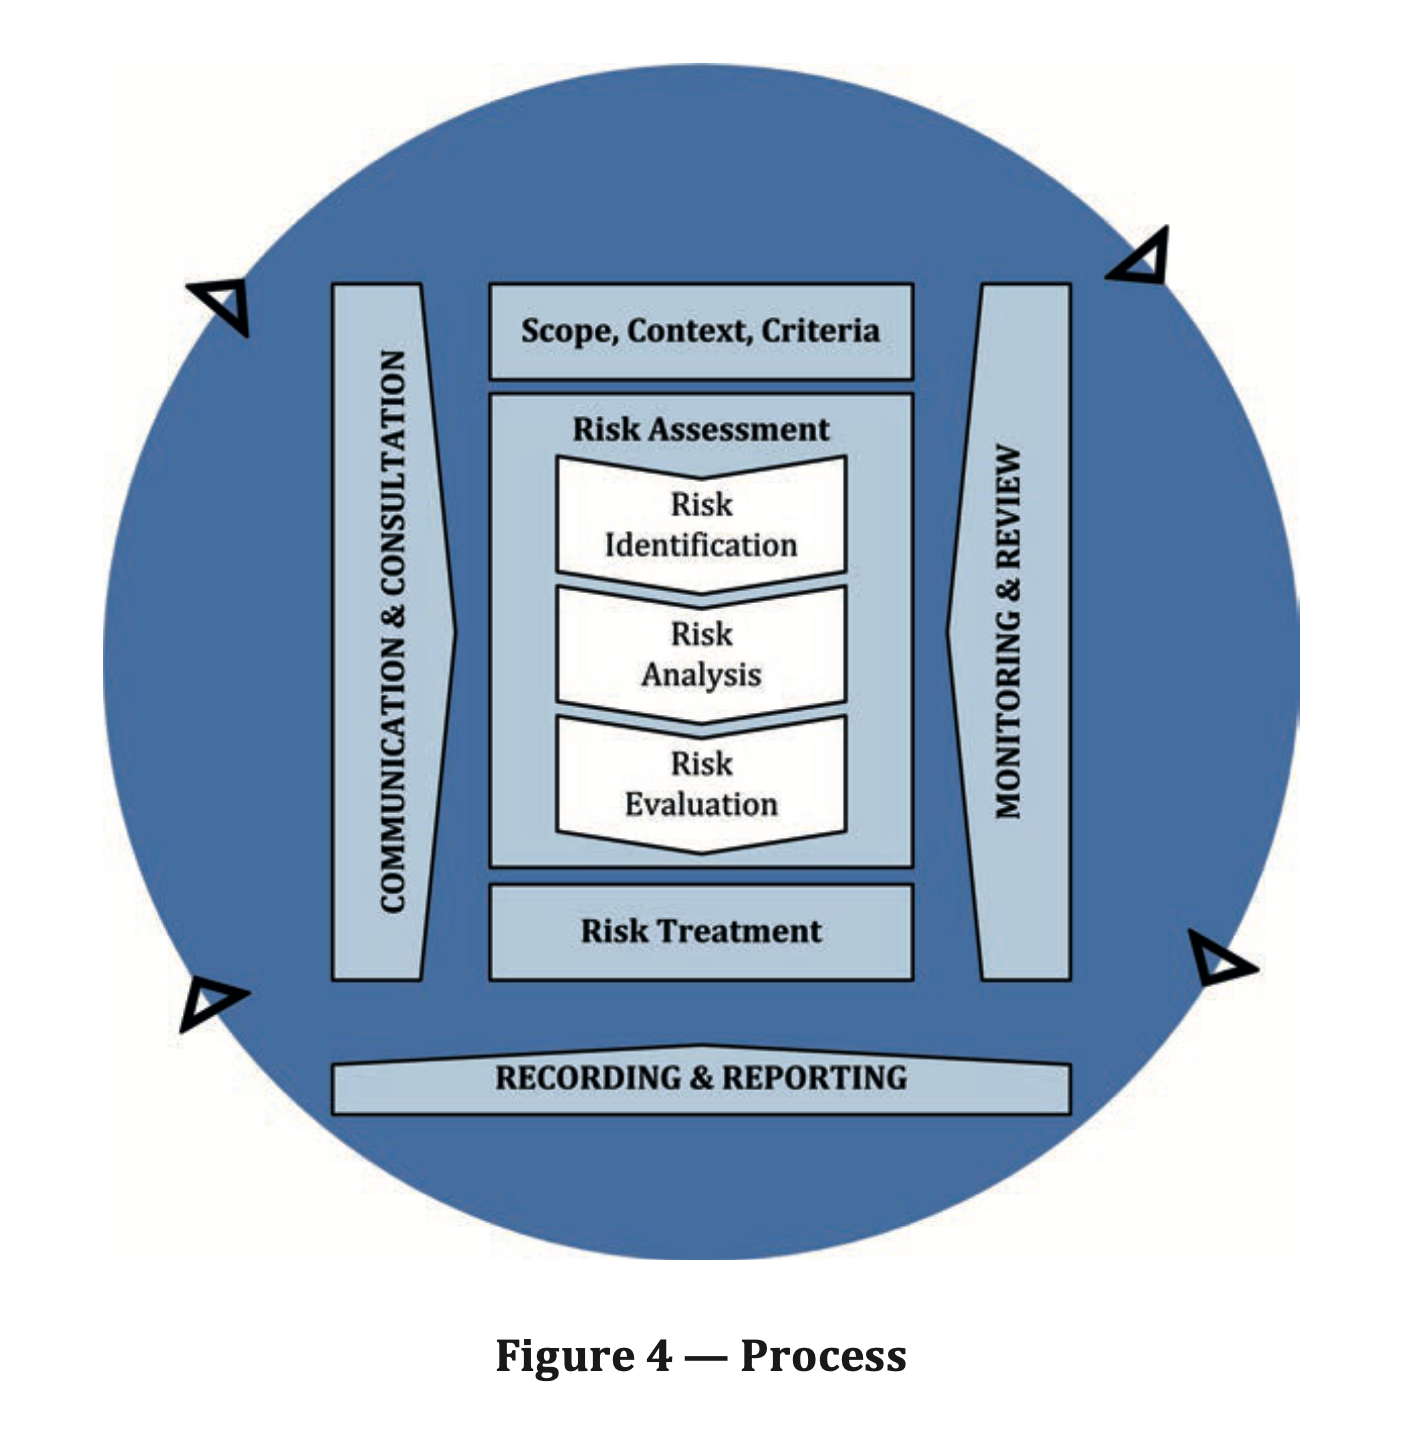
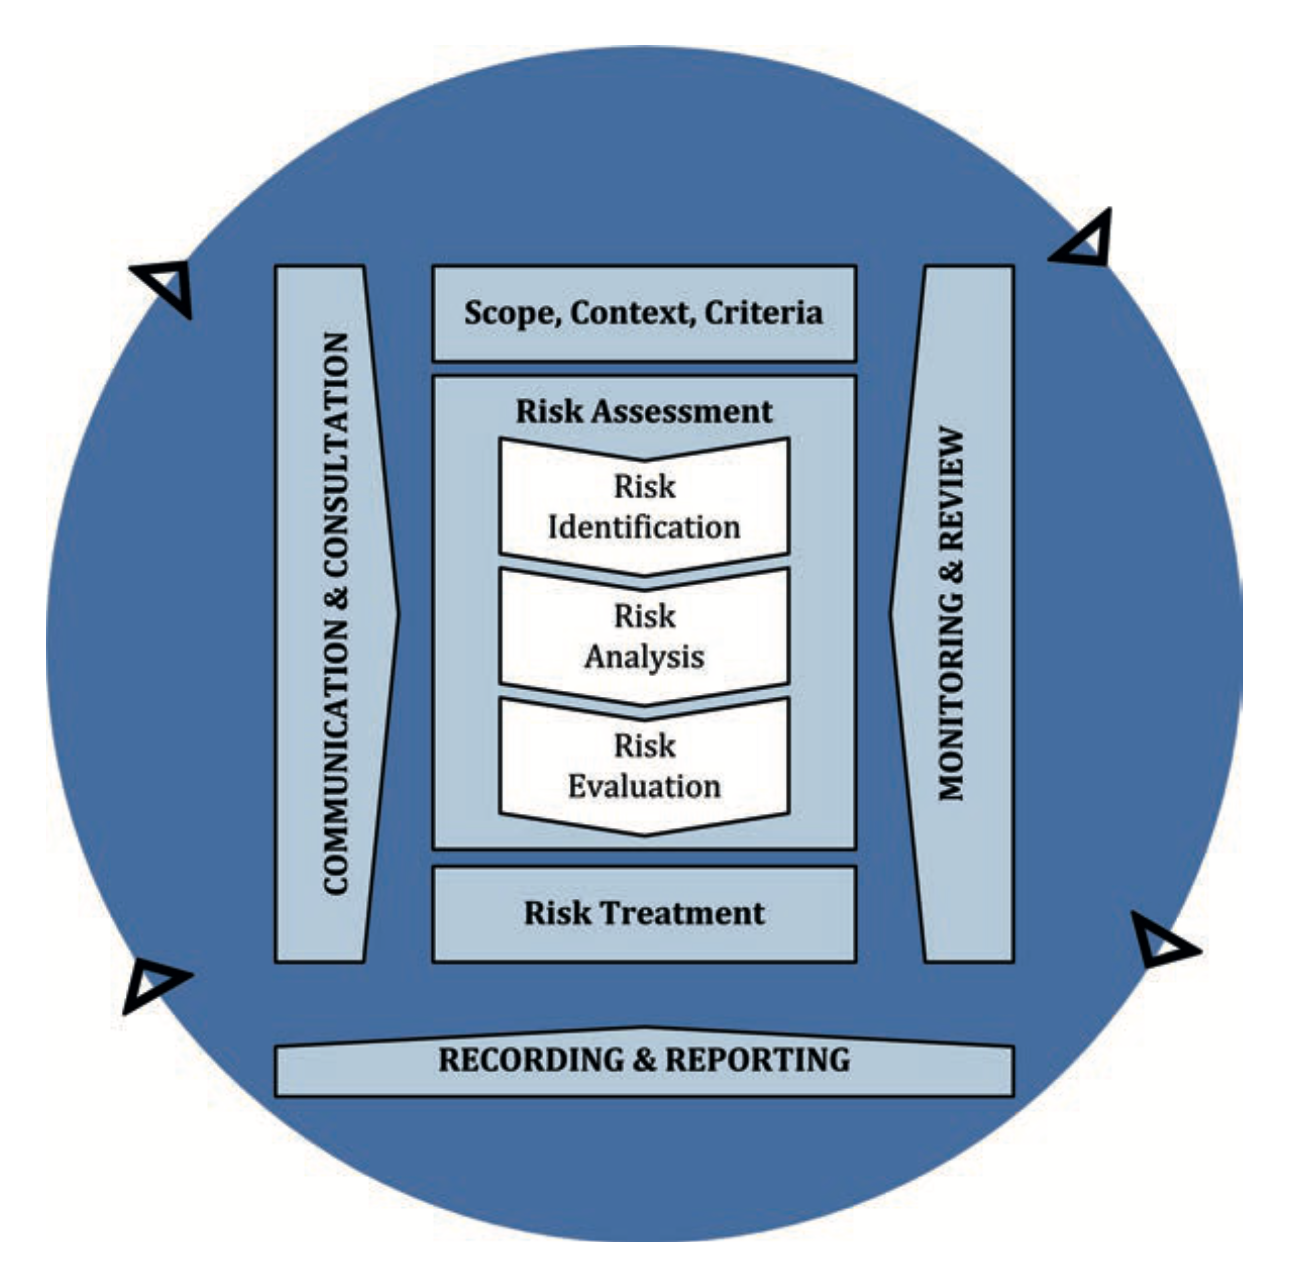
Added changes after review
Removed process text in RA image
e.g., moved on top of the help
changed the wording about usage of AI
Risk Analysis (a) and (b) changed in to Phase 1, 2
In the risk catalog of Risk Analysis Phase 2 now Process unknown and Process not adopted are two separated elements.

diff --git a/wizard.html b/wizard.html
@@ -16,8 +16,8 @@
         <aside class="sidebar">
             <ul class="steps-list">
                 <li class="step-item active" data-step="0">Step 1: Risk Identification</li>
-                <li class="step-item" data-step="1">Step 2: Risk Analysis (a)</li>
-                <li class="step-item" data-step="2">Step 3: Risk Analysis (b)</li>
+                <li class="step-item" data-step="1">Step 2: Risk Analysis Phase 1</li>
+                <li class="step-item" data-step="2">Step 3: Risk Analysis Phase 2</li>
                 <li class="step-item" data-step="3">Step 4: Risk Evaluation</li>
             </ul>
         </aside>
@@ -37,7 +37,8 @@
                         <span class="help-icon" id="help-risk-name">❓</span>
                     </label>
                     <div id="help-text-risk-name" class="help-text">
-                        <p>Use a short, descriptive phrase that captures the essence of the risk. Concise and Clear: e.g., “Unknown cyber risk security risk exposure”</p>
+                        <p>E.g., Unknown cyber risk security risk exposure </p>
+                        <p>Use a short concise and clear descriptive phrase that captures the essence of the risk.</p>
                     </div>
                     <input type="text" id="riskName" placeholder="Enter risk name" required>
                 </div>
@@ -47,6 +48,12 @@
                         <span class="help-icon" id="help-risk-description">❓</span>
                     </label>
                     <div id="help-text-risk-description" class="help-text">
+
+                        <p>E.g., The team is not following the SDL process and has not prepared a Security Risk Plan that includes an assessment of cybersecurity risks.
+                            Without a proper risk assessment, we cannot fully understand our risk exposure.
+                            This poses a significant problem for our customers who rely on the product, as well as a reputational risk for our company, its brand, and its shareholders.
+                            Furthermore, customer assets could potentially be compromised due to vulnerabilities, exposing the company to legal actions and lawsuits.
+                        </p>
                         <p>When describing a risk, consider the following elements:</p>
                         <ul>
                             <li>Tangible and intangible sources of risk: Identify physical, financial, or reputational factors contributing to the risk.</li>
@@ -60,10 +67,6 @@
                             <li>Limitations of knowledge and reliability of information: Acknowledge gaps in understanding or inaccuracies in available data.</li>
                             <li>Time-related factors: Identify deadlines, delays, or timeframes that influence the risk.</li>
                             <li>Biases, assumptions, and beliefs of those involved: Address subjective influences that could skew the risk assessment.</li>
-                            <li>e.g., "The team is not following the SDL process and has not prepared a Security Risk Plan that includes an assessment of cybersecurity risks.
-                                Without a proper risk assessment, we cannot fully understand our risk exposure.
-                                This poses a significant problem for our customers who rely on the product, as well as a reputational risk for our company, its brand, and its shareholders.
-                                Furthermore, customer assets could potentially be compromised due to vulnerabilities, exposing the company to legal actions and lawsuits."</li>
                         </ul>
                     </div>
                     <textarea id="riskDescription" placeholder="Enter risk description" rows="4"></textarea>
@@ -74,7 +77,7 @@
 
             <div class="step" id="step-2">
                 <h2>
-                    Step 2: Risk Analysis (a)
+                    Step 2: Risk Analysis Phase 1
                     <span class="help-icon" id="help-step2-risk-analysis">❓</span>
                 </h2>
                 <div id="help-text-step2-risk-analysis" class="help-text">
@@ -101,12 +104,13 @@
                         <span class="help-icon" id="help-impact-description">❓</span>
                     </label>
                     <div id="help-text-impact-description" class="help-text">
-                        <p>Use AI to find the potential impact.</p>
-                        <p>e.g.,"Customer Trust Erosion: Clients may lose confidence in the product’s reliability and security, potentially impacting customer retention and acquisition.</p>
+                        <p>I suggest using AI to get suggestions on potential impacts.</p>
+                        <p>E.g., </p>
+                        <p>Customer Trust Erosion: Clients may lose confidence in the product’s reliability and security, potentially impacting customer retention and acquisition.</p>
                         <p>Reputational Damage: The company’s brand could suffer, reducing its market competitiveness and tarnishing shareholder confidence</p>
                         <p>Financial Loss: Exploited vulnerabilities may result in costly incidents, such as data breaches or operational disruptions, leading to fines, legal settlements, or regulatory penalties.</p>
                         <p>Legal Liabilities: Customer assets impacted by unresolved vulnerabilities could trigger lawsuits, further increasing operational and financial strain.</p>
-                        <p>Business Disruption: Addressing unplanned security incidents consumes resources and shifts focus away from strategic goals, delaying product updates or launches."</p>
+                        <p>Business Disruption: Addressing unplanned security incidents consumes resources and shifts focus away from strategic goals, delaying product updates or launches.</p>
                     </div>
                     <textarea id="impactDescription" placeholder="Describe the impact" rows="4"></textarea>
                 </div>
@@ -159,7 +163,7 @@
             </div>
 
             <div class="step" id="step-3">
-                <h2>Step 3: Risk Analysis (b)</h2>
+                <h2>Step 3: Risk Analysis Phase 2</h2>
                 <div class="form-group">
                     <div class="form-group">
                         <label for="strategicRisk">
@@ -234,7 +238,8 @@
                             <li>Inefficient processes: Processes generating waste of resources, time, or money.</li>
                             <li>Ineffective processes: Processes that fail to produce the desired results.</li>
                             <li>KPIs not capturing relevant indicators: Metrics that fail to measure performance effectively, limiting business improvement opportunities.</li>
-                            <li>Process unknown or not adopted: Operational workflows are poorly defined or inconsistently followed.</li>
+                            <li>Process unknown: Operational workflows are unknown.</li>
+                            <li>Process not adopted: Operational workflows known but not adopeted.</li>
                             <li>Other risks affecting the efficiency and effectiveness of operations.</li>
                         </ul>
                         <p><strong>Considerations:</strong></p>
@@ -249,8 +254,9 @@
                         <option value="OR1">Inefficient process (process generates waste of resource/time/money/etc.)</option>
                         <option value="OR2">Ineffective process (process is unable to produce desired results)</option>
                         <option value="OR3">KPIs are not capturing relevant indicators and/or can’t be used for business improvement</option>
-                        <option value="OR4">Process unknown or not adopted</option>
-                        <option value="OR5">Other</option>
+                        <option value="OR4">Process unknown</option>
+                        <option value="OR5">Process not adopted</option>
+                        <option value="OR6">Other</option>
                     </select>
                 </div>
                 <div class="form-group">
@@ -280,7 +286,7 @@
                         <option value="CR1">Ability to sell product/service in specific countries</option>
                         <option value="CR2">Health and safety compliance</option>
                         <option value="CR3">ESD Compliance</option>
-                        <option value="CR4">Product/Service limitations (e.g: blind Color GUI)</option>
+                        <option value="CR4">Product/Service limitations (e.g.,blind Color GUI)</option>
                         <option value="CR5">Compliance with International standard</option>
                         <option value="CR6">Other</option>
                     </select>

diff --git a/script.js b/script.js
@@ -123,6 +123,7 @@ document.getElementById("finish-btn").addEventListener("click", () => {
         <div style="display: flex; flex-direction: column; align-items: center; justify-content: center; height: 100vh; font-family: Arial, sans-serif; text-align: center;">
             <h1>Thank You!</h1>
             <p>Your Risk Assessment has been completed </p>
+            <p>If you want to perform another risk assessment, go to the URL section at the top of your browser and press Enter.</p>
         </div>
     `;
 });
